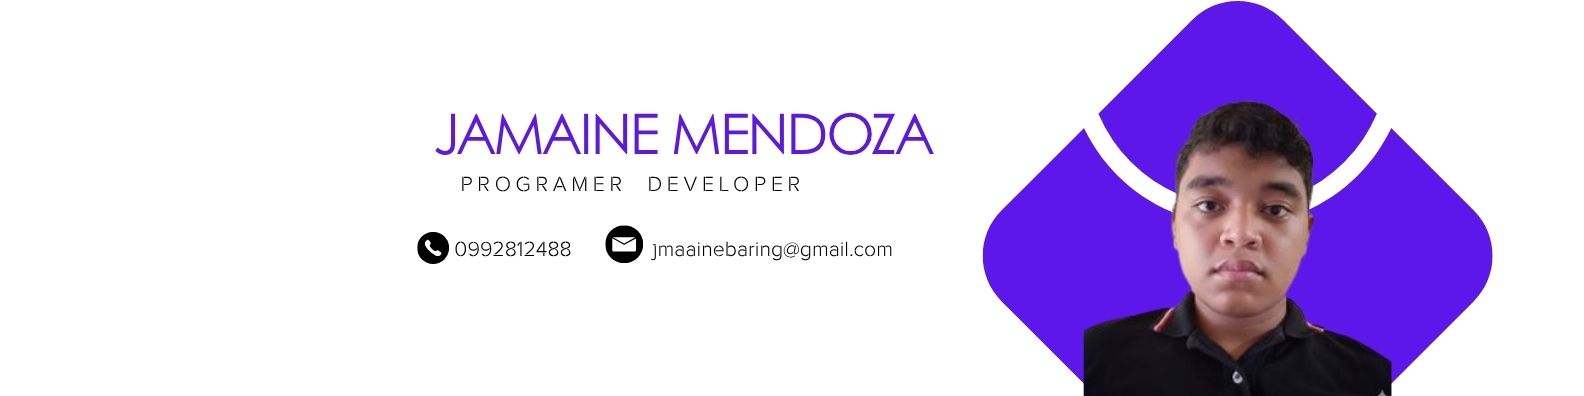
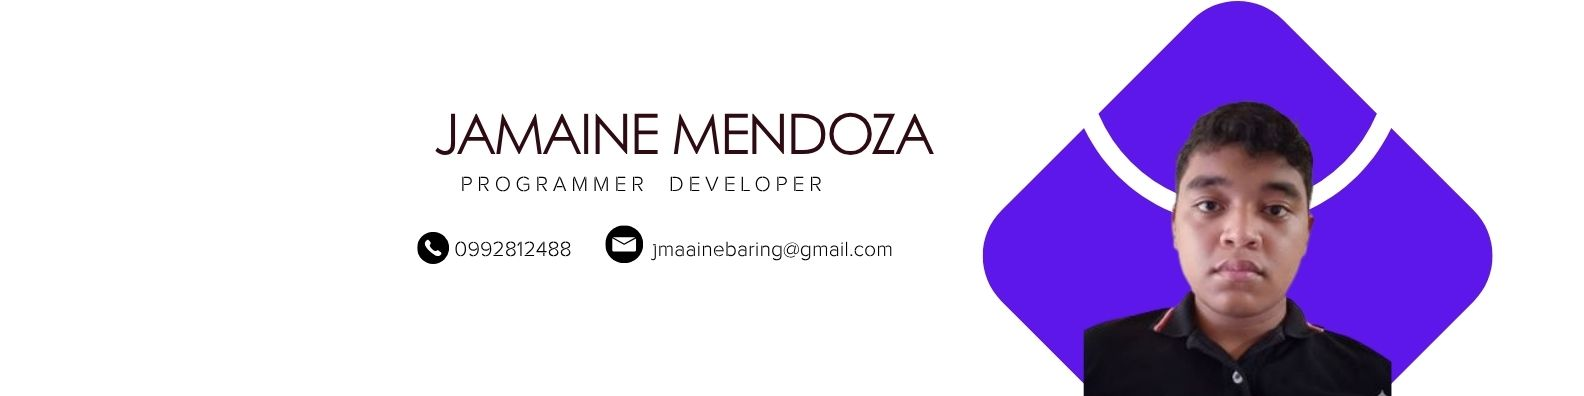
Add files via upload

Changed region(s): [[0.2784, 0.2727, 0.5878, 0.3939], [0.3712, 0.4242, 0.5259, 0.4848]]

diff --git a/about.html b/about.html
@@ -265,7 +265,7 @@ footer small{color:rgba(255,255,255,.4)}
   </section>
 
   <!-- PERSONAL INFORMATION -->
-  <section aria-rap"></section>labelledby="info-h" style="padding-top:clamp(32px,5vw,56px)">
+  <section aria-rap"></section>
     <div class="w
       <div class="sec-head rv"><h2 id="info-h">PERSONAL INFO</h2></div>
       <div class="profile">
